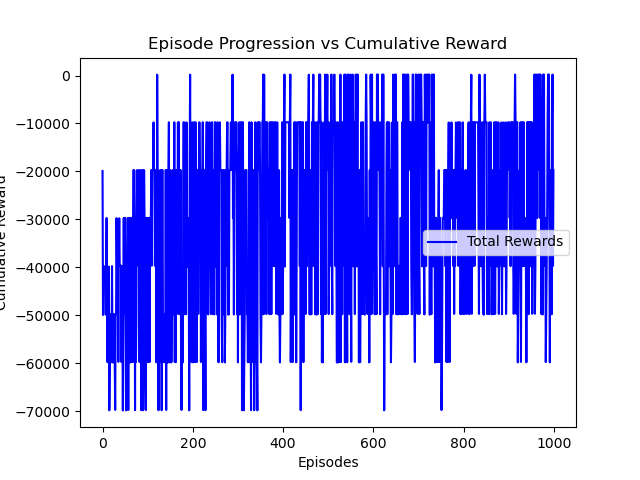
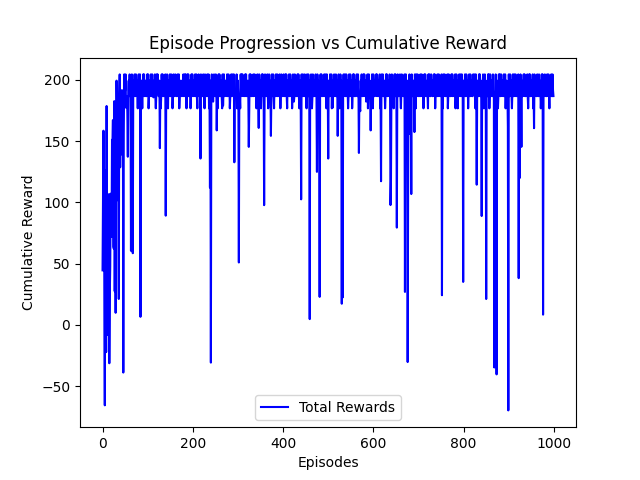
Mid Sem solutions

diff --git a/Midsem/sol.py b/Midsem/sol.py
@@ -56,7 +56,7 @@ class AgentQLearner:
         self.exploration_rate = max(self.min_exploration_rate, self.exploration_rate * self.exploration_decay)
 
 
-def render_path(environment, learner, path_traversed, save_file="D:/tsp_path_render.mp4"):
+def render_path(environment, learner, path_traversed, save_file="D:/tsp_path_render.gif"):
     """Animate and visualize the agent's path through the environment."""
     fig, ax = plt.subplots()
     ax.scatter(environment.locations[:, 0], environment.locations[:, 1], c='red', label='Waypoints')  # Target locations
@@ -76,7 +76,9 @@ def render_path(environment, learner, path_traversed, save_file="D:/tsp_path_ren
     path_animation = animation.FuncAnimation(fig, animate, frames=len(path_traversed), init_func=initialize, blit=True, repeat=False)
     plt.legend()
     # Save the animation to the specified file
-    path_animation.save(save_file, writer='ffmpeg', fps=2)
+    writergif = animation.PillowWriter(fps=300)
+    path_animation.save(save_file,writer=writergif)
+    # path_animation.save(save_file, writer='ffmpeg', fps=2)
     plt.show()
 
 
@@ -84,7 +86,7 @@ def run_simulation():
     """Run the Q-learning agent in the custom TSP environment."""
     num_points = 10
     reshuffle_time = 10
-    total_episodes = 10000  # Number of episodes to run the Q-learning agent
+    total_episodes = 1000  # Number of episodes to run the Q-learning agent
 
     # Initialize environment and agent
     environment = ModTSP(num_points, shuffle_time=reshuffle_time)

diff --git a/Midsem/README.md b/Midsem/README.md
@@ -1,93 +1,98 @@
-# Q-Learning Agent for Modified Traveling Salesman Problem (TSP)
+# TSP Q-Learning Solution - Mid-Sem Exam
+The solution consists of:
+- An environment (`env.py`) that simulates the TSP with randomized target locations.
+- A Q-learning agent (`sol.py`) that learns the optimal path to visit all waypoints while maximizing profits.
 
-This repository contains an implementation of a Q-learning agent that solves a modified Traveling Salesman Problem (TSP). The agent learns to navigate through target waypoints to minimize the total travel cost (negative reward). The simulation environment allows shuffling of target positions during episodes.
+The solution is illustrated through:
+- Cumulative reward progression over episodes (`Figure 1`).
+- The final path traversed by the agent (`Figure 2`).
 
-## Files in this Repository
+---
 
-1. **main_code.py**: This file contains the Q-learning agent's implementation and the environment interaction logic.
-2. **Figure_1.png**: Visualization of the cumulative rewards over 1000 episodes.
-3. **Figure_2.png**: Visualization of the agent's path over the waypoints at the final episode.
-4. **README.md**: This file provides detailed instructions for running the code and understanding the results.
+## Installation & Setup
 
-## Requirements
+### Requirements
 
-- Python 3.7+
-- Required Libraries:
-  - numpy
-  - matplotlib
-  - ffmpeg (for saving animations)
-  - An appropriate environment (`ModTSP`) defined in `env.py`
+To run the code, ensure you have the following dependencies installed:
+- `gymnasium`
+- `numpy`
+- `matplotlib`
+- `pandas`
 
-You can install the necessary Python libraries by running:
-
+You can install them using `pip`:
 ```bash
-pip install numpy matplotlib gymnasium openai-gym
+pip install gymnasium numpy matplotlib pandas
 ```
 
-## Running the Code
+### Running the Code
 
-1. Ensure the environment class `ModTSP` is correctly implemented or imported from the `env.py` file.
-2. Run the `main_code.py` script using the following command:
+1. Clone the repository:
+   ```bash
+   git clone https://github.com/MOONLABIISERB/marl-ecs-course.git
+   ```
+2. Navigate to the project directory:
+   ```bash
+   cd Midsem
+   ```
+3. Run the simulation:
+   ```bash
+   python sol.py
+   ```
 
-```bash
-python main_code.py
-```
+Upon running the code, you will see:
+- A plot of cumulative rewards earned by the agent after each episode.
+- An animation of the agent's final path across the waypoints.
 
-This will:
-- Train the Q-learning agent for 1000 episodes.
-- Display the cumulative rewards after each episode.
-- Save the path visualizations and the cumulative reward chart.
+---
 
-## Results
+## Files and Directories
 
-### Cumulative Rewards After 1000 Episodes
+### 1. `env.py`
+This file defines the custom environment `ModTSP` based on Gym, where:
+- `__init__()` initializes the environment with target locations, profits, and distance matrix.
+- `reset()` resets the environment for a new episode.
+- `step()` allows the agent to take actions and updates the environment state.
 
-The performance of the Q-learning agent over 1000 episodes is plotted in `Figure_1.png`. Here’s a sample of cumulative rewards after key episodes:
+### 2. `sol.py`
+This file contains the implementation of the Q-learning agent `AgentQLearner`. Key functions include:
+- `choose_action()` for selecting actions using epsilon-greedy policy.
+- `update_q_table()` for updating the Q-values based on the agent's experiences.
+- `render_path()` for visualizing the final path taken by the agent.
 
-```json
+### 3. Figures
+- **Figure 1**: A graph of the cumulative rewards earned by the agent over 1000 episodes.
+- **Figure 2**: A plot showing the final path taken by the agent across all waypoints.
+
+### 4. Output Dictionary (Episodic Rewards)
+The following dictionary captures the cumulative rewards at intervals during the training process:
+
+```python
 {
-    'Rewards after episode 0': -19902.38,
-    'Rewards after episode 100': -49778.82,
-    'Rewards after episode 200': -9778.46,
-    'Rewards after episode 300': -59827.39,
-    'Rewards after episode 400': -39748.29,
-    'Rewards after episode 500': -9726.31,
-    'Rewards after episode 600': -9769.94,
-    'Rewards after episode 700': 214.47,
-    'Rewards after episode 800': -49697.01,
-    'Rewards after episode 900': -19689.95
+    'Rewards after episode 0': 44.52,
+    'Rewards after episode 100': 191.48,
+    'Rewards after episode 200': 186.58,
+    'Rewards after episode 300': 199.22,
+    'Rewards after episode 400': 186.64,
+    'Rewards after episode 500': 135.70,
+    'Rewards after episode 600': 204.31,
+    'Rewards after episode 700': 186.58,
+    'Rewards after episode 800': 199.22,
+    'Rewards after episode 900': 204.31
 }
 ```
 
-- **Early Episodes (0-100)**: The agent experiences large negative rewards due to high exploration and the random nature of the environment.
-- **Middle Episodes (200-600)**: The agent starts showing signs of improvement but still fluctuates between large negative rewards.
-- **Late Episodes (700-900)**: The agent begins to converge to better solutions, achieving a positive reward in episode 700.
-  
-![Cumulative Rewards Over Episodes](./Figure_1.png)
+---
 
-### Path Visualization
+## Results and Inference
 
-The agent's path over the target waypoints in the final episode is shown in `Figure_2.png`. Red dots indicate the waypoints, and the blue line represents the agent's path.
+### **Cumulative Reward Progression (Figure 1)**:
+- This plot shows how the agent improves over time, as its cumulative rewards stabilize around 200 after approximately 100 episodes. The dips represent exploration steps where the agent attempts non-optimal actions but eventually converges to a stable solution.
 
-![Agent's Path](./Figure_2.png)
+### **Final Path Traversed (Figure 2)**:
+- This figure illustrates the agent's final traversal of waypoints, demonstrating how it efficiently plans its route after learning the optimal path through exploration and exploitation.
 
-## Modifying Parameters
+---
 
-You can modify the hyperparameters and experiment with the agent’s behavior:
+## Conclusion
 
-- **Number of Targets**: Change the number of waypoints the agent needs to visit by adjusting the `num_points` parameter in the code.
-- **Number of Episodes**: Change the total training time by adjusting the `total_episodes` parameter.
-- **Learning Rate** (`lr`): Modify the agent’s learning rate to control how fast it adapts to new situations.
-- **Discount Factor** (`discount`): This parameter controls how much future rewards influence current decisions.
-
-## Visualizations
-
-The code will generate two types of visualizations:
-
-1. **Cumulative Reward Plot**: A plot of the total rewards collected by the agent over all episodes, helping to track the learning progress.
-2. **Path Visualization**: A real-time visualization of the agent's path across waypoints in the environment. This path is saved as an MP4 file and displayed at the end of training.
-
-## Limitations and Improvements
-
-- **Exploration**: The agent’s exploration rate decays over time, which means it might get stuck in suboptimal policies. You can adjust the exploration decay factor (`exploration_decay`) to see how it affects learning.
-- **Path Quality**: The Q-learning approach may not always yield the globally optimal path. Consider using advanced techniques such as Deep Q-Learning or integrating heuristics like Simulated Annealing or Genetic Algorithms for better performance.
+The Q-learning algorithm successfully navigates the TSP environment, learning an efficient path with minimal exploration as episodes progress. The solution showcases the balance between exploration (learning new routes) and exploitation (using known routes to maximize rewards).
